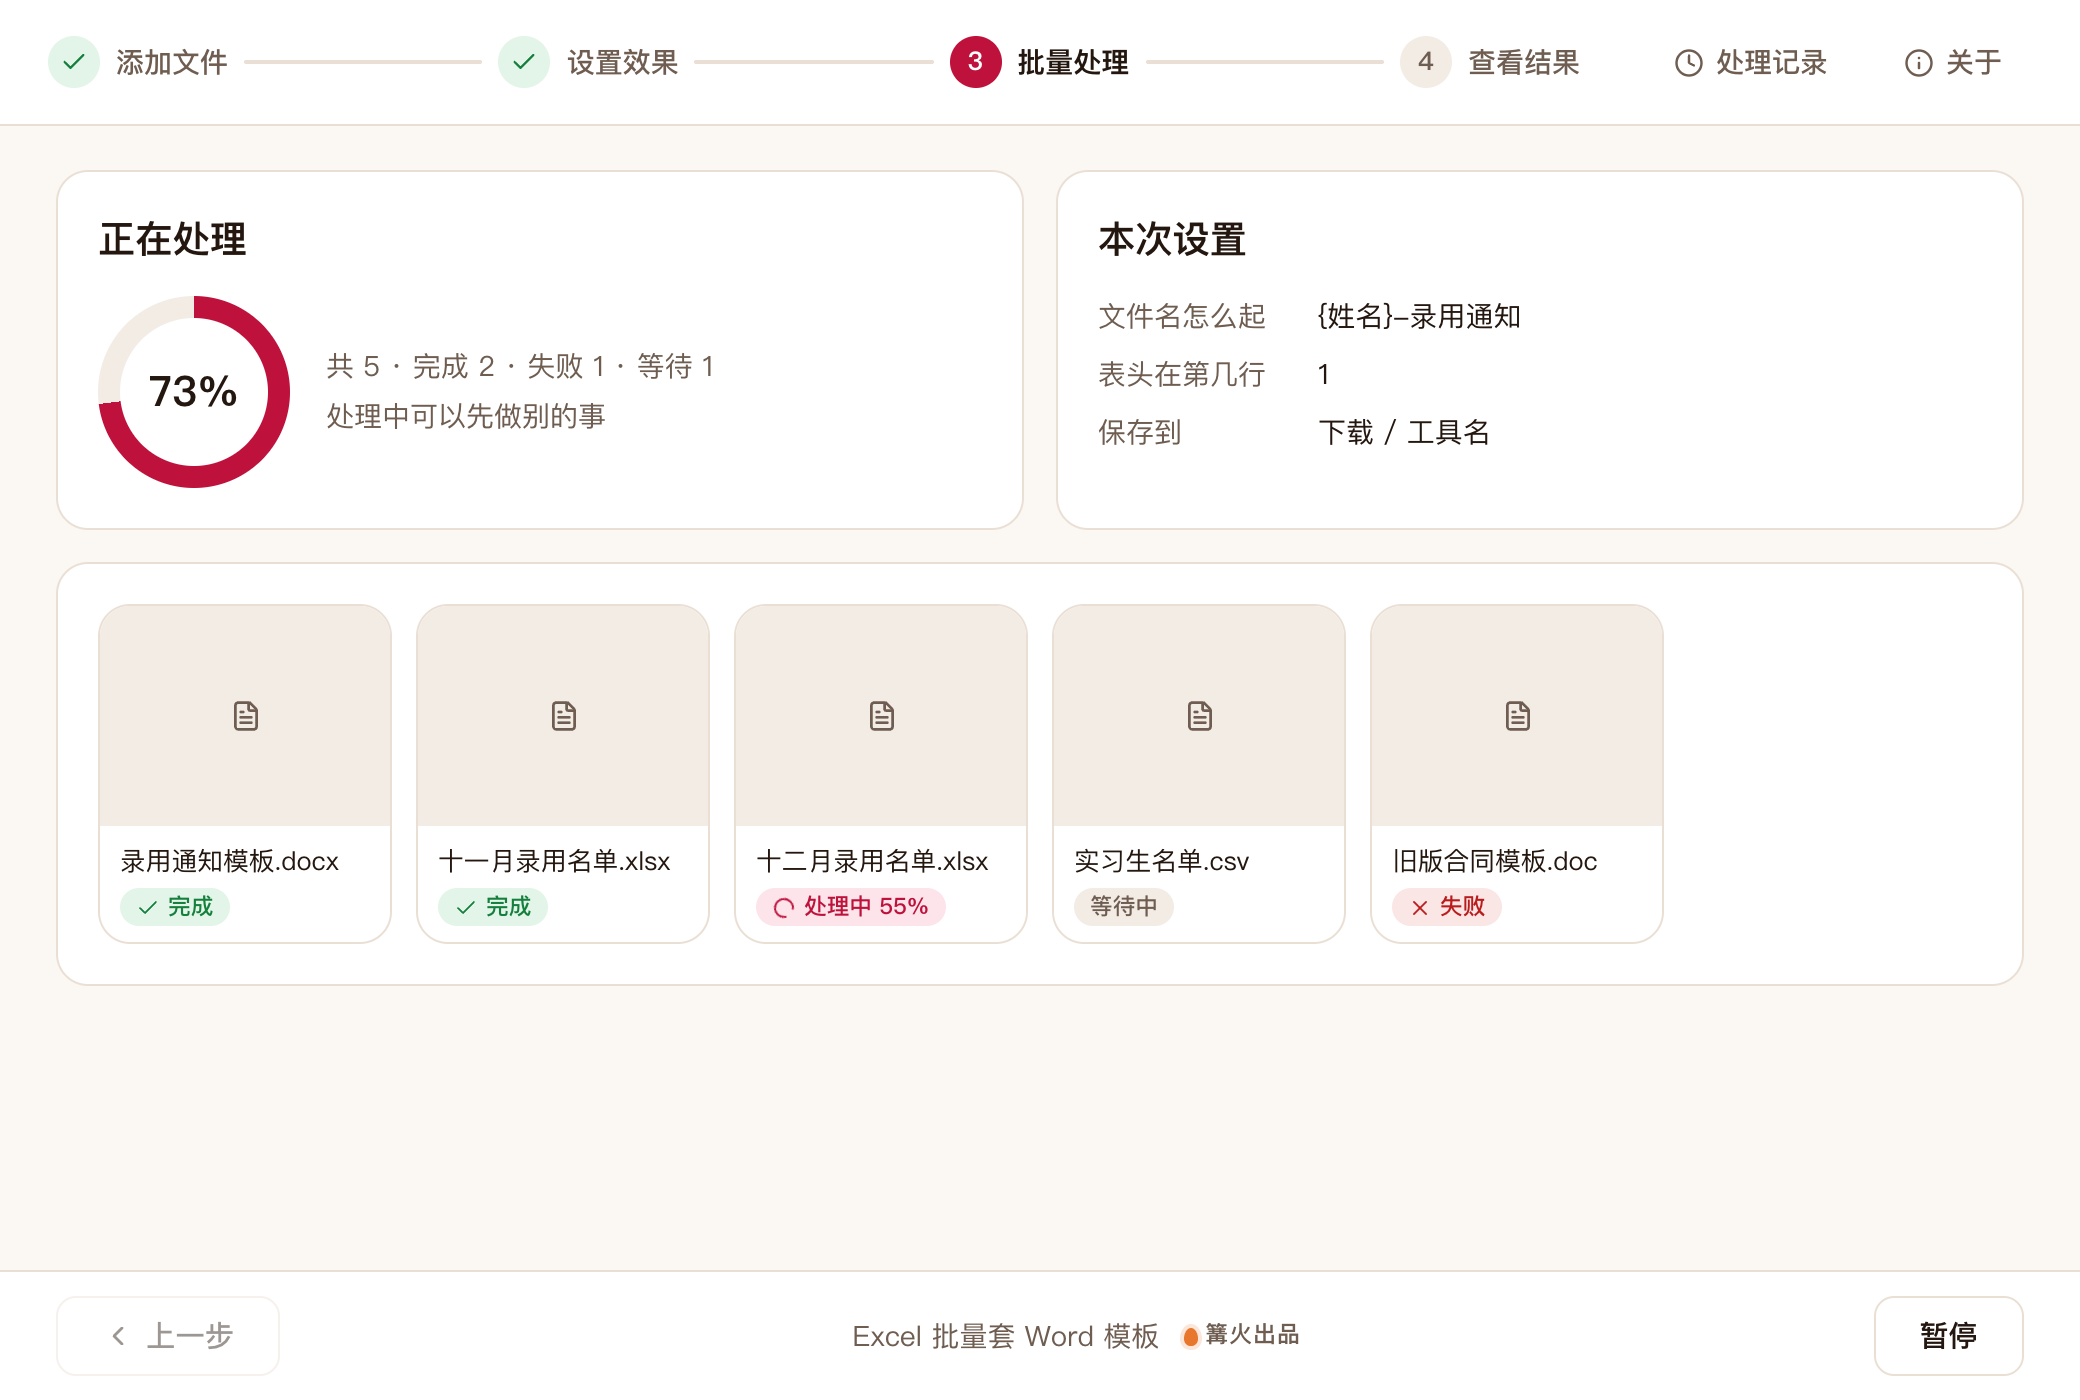
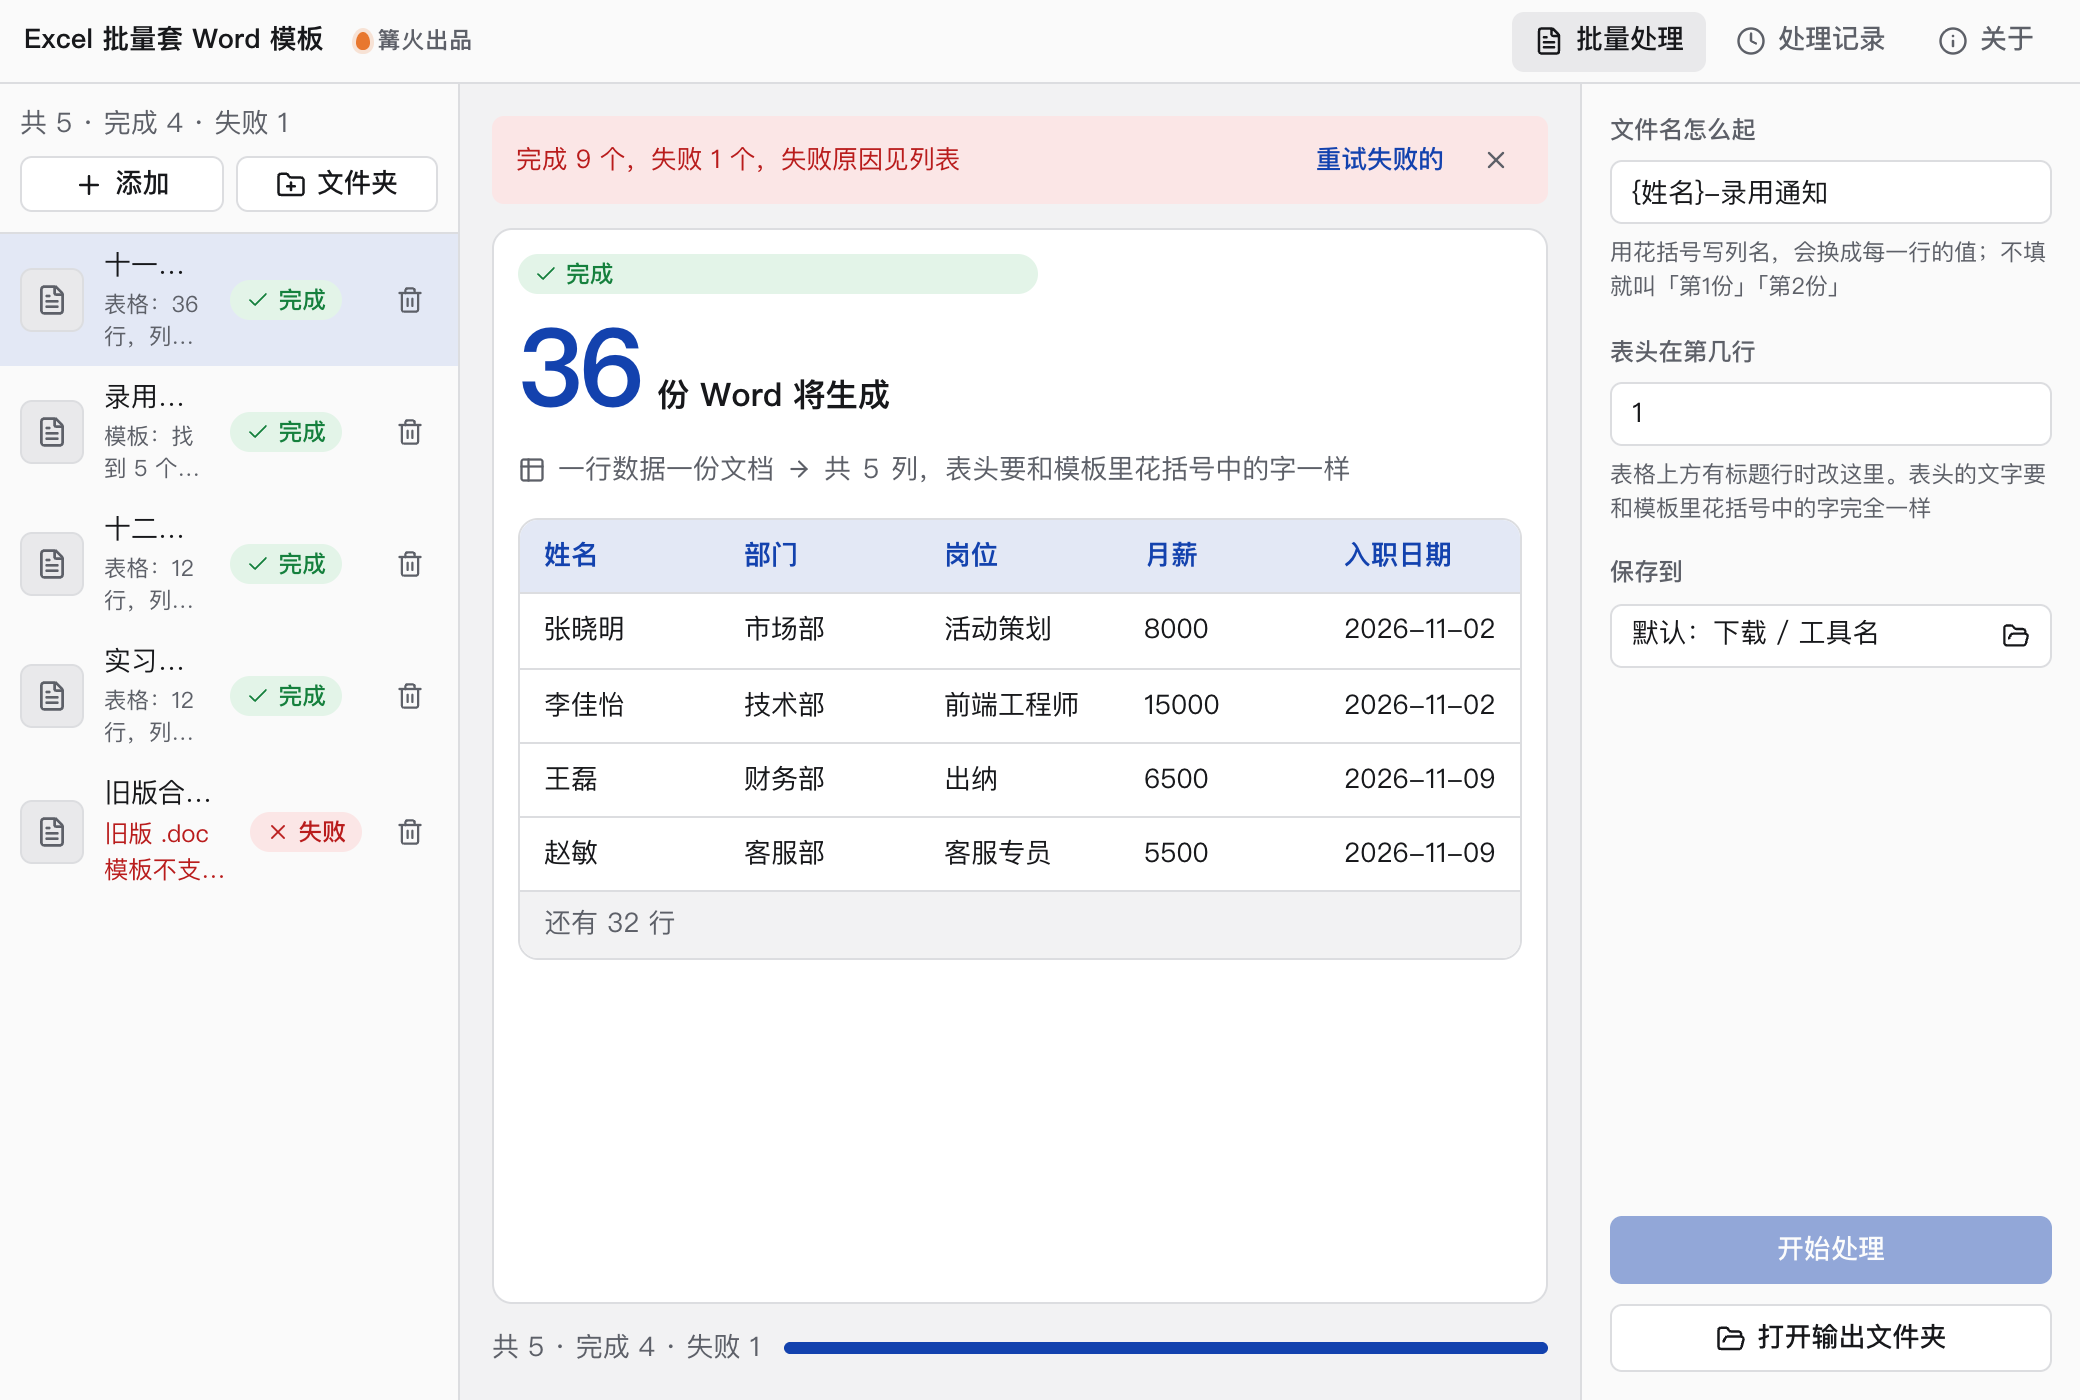
打磨 0.2.0：左列表右预览布局，名单大字加表格预览，模板占位符高亮，空状态示意图，界面全中文

diff --git a/src/tool/tool.css b/src/tool/tool.css
@@ -1,0 +1,54 @@
+/* Excel 批量套 Word 模板：布局 d（左列表、右预览）。只用 kit.css 的变量，类名以 xw- 开头。
+   焦点：模板上高亮的占位符，以及名单「将生成几份」的大字。 */
+
+/* ---- 空状态 ---- */
+.xw-empty { display: flex; flex-direction: column; align-items: center; gap: 10px; padding: 12px; text-align: center; min-height: 100%; justify-content: center; }
+.xw-empty > svg { width: 100%; max-width: 620px; height: auto; }
+.xw-paper { fill: var(--surface); stroke: var(--line-strong); stroke-width: 1.4; }
+.xw-ink { fill: var(--ink); opacity: .75; }
+.xw-ln { fill: var(--line-strong); opacity: .8; }
+.xw-tag { fill: var(--primary-soft); stroke: var(--primary); stroke-width: 1; }
+.xw-tagt { font-size: 7px; fill: var(--primary); font-weight: 700; font-family: var(--font); }
+.xw-sheet { fill: var(--surface); stroke: var(--line-strong); stroke-width: 1.4; }
+.xw-head { fill: var(--primary); }
+.xw-ht { font-size: 10px; fill: var(--on-primary); font-weight: 700; font-family: var(--font); }
+.xw-ct { font-size: 10px; fill: var(--ink); font-family: var(--font); }
+.xw-rule { stroke: var(--line); stroke-width: 1; }
+.xw-plus { font-size: 24px; fill: var(--muted); font-family: var(--font); }
+.xw-arrow { fill: none; stroke: var(--primary); stroke-width: 2.4; stroke-linecap: round; stroke-linejoin: round; }
+.xw-doc { fill: var(--surface); stroke: var(--line-strong); stroke-width: 1.2; }
+.xw-doc.hot { fill: var(--primary-soft); stroke: var(--primary); }
+.xw-w { fill: var(--primary); }
+.xw-wt { font-size: 10px; fill: var(--on-primary); font-weight: 800; font-family: var(--font); }
+.xw-ft { font-size: 10.5px; fill: var(--ink); font-family: var(--font); }
+.xw-cap { font-size: 11px; fill: var(--muted); font-family: var(--font); }
+.xw-title { font-size: 1.35em; font-weight: 700; color: var(--ink); margin-top: 4px; }
+.xw-act { display: inline-flex; align-items: center; gap: 6px; padding: 6px 14px; border-radius: 999px; background: var(--primary-soft); color: var(--primary); font-weight: 600; text-align: left; line-height: 1.4; }
+.xw-act svg { flex: none; }
+
+/* ---- 右侧预览 ---- */
+.xw-body { display: grid; gap: 14px; align-content: start; }
+.xw-big { display: flex; align-items: baseline; gap: 8px; }
+.xw-big b { font-size: 4em; line-height: 1; font-weight: 800; color: var(--primary); letter-spacing: -.03em; }
+.xw-big span { font-size: 1.2em; font-weight: 600; color: var(--ink); }
+.xw-sub { display: flex; align-items: center; flex-wrap: wrap; gap: 4px 6px; color: var(--muted); }
+.xw-tpl { display: grid; grid-template-columns: 150px minmax(0, 1fr); gap: 20px; align-items: center; }
+.xw-page { aspect-ratio: 3 / 4; background: var(--bg); border: 1px solid var(--line-strong); border-radius: 4px; padding: 14px 12px; display: grid; align-content: start; gap: 8px; box-shadow: 0 4px 14px rgb(0 0 0 / .08); }
+.xw-bar { display: block; height: 5px; border-radius: 3px; background: var(--line-strong); opacity: .75; }
+.xw-bar.w50 { width: 50%; background: var(--ink); opacity: .6; height: 6px; }
+.xw-bar.w80 { width: 80%; }
+.xw-bar.w60 { width: 60%; }
+.xw-tags { display: flex; flex-wrap: wrap; gap: 4px; }
+.xw-tags b { font-size: 11px; padding: 1px 5px; border-radius: 3px; background: var(--primary-soft); color: var(--primary); border: 1px solid var(--primary); font-weight: 700; }
+.xw-side { display: grid; gap: 8px; }
+.xw-chips { display: flex; flex-wrap: wrap; gap: 6px; }
+.xw-chips span { padding: 3px 10px; min-height: 26px; display: inline-flex; align-items: center; border-radius: 6px; background: var(--primary-soft); color: var(--primary); font-weight: 600; font-variant-numeric: tabular-nums; }
+
+.xw-grid-wrap { border: 1px solid var(--line); border-radius: var(--radius-lg); overflow: hidden; background: var(--surface); }
+.xw-grid { width: 100%; border-collapse: collapse; table-layout: fixed; }
+.xw-grid th { text-align: left; padding: 8px 12px; background: var(--primary-soft); color: var(--primary); font-weight: 700; white-space: nowrap; overflow: hidden; text-overflow: ellipsis; }
+.xw-grid td { padding: 8px 12px; border-top: 1px solid var(--line); color: var(--ink); white-space: nowrap; overflow: hidden; text-overflow: ellipsis; font-variant-numeric: tabular-nums; }
+.xw-grid .xw-more { width: 2.2em; color: var(--muted); text-align: center; }
+.xw-rest { padding: 6px 12px; border-top: 1px solid var(--line); color: var(--muted); background: var(--bg); }
+
+@media (max-width: 760px) { .xw-tpl { grid-template-columns: 1fr; } }

diff --git a/src/tool/Empty.tsx b/src/tool/Empty.tsx
@@ -1,0 +1,62 @@
+// 空状态：画出「一份模板 + 一张名单 → 每人一份 Word」，占位符、表头和文件名都是真实感的中文
+import { Upload } from 'lucide-react';
+import './tool.css';
+
+export function Empty({ hover }: { hover: boolean }) {
+  return (
+    <div className="xw-empty">
+      <svg viewBox="0 0 520 210" role="img" aria-label="一份 Word 模板加一张名单，生成每人一份的 Word 文件">
+        {/* 模板 */}
+        <g>
+          <rect x="10" y="14" width="112" height="146" rx="5" className="xw-paper" />
+          <rect x="24" y="28" width="52" height="7" rx="3" className="xw-ink" />
+          <rect x="24" y="46" width="30" height="6" rx="3" className="xw-tag" />
+          <text x="28" y="51" className="xw-tagt">{'{姓名}'}</text>
+          <rect x="24" y="64" width="84" height="4" rx="2" className="xw-ln" />
+          <rect x="24" y="76" width="34" height="6" rx="3" className="xw-tag" />
+          <text x="28" y="81" className="xw-tagt">{'{部门}'}</text>
+          <rect x="62" y="77" width="46" height="4" rx="2" className="xw-ln" />
+          <rect x="24" y="94" width="84" height="4" rx="2" className="xw-ln" />
+          <rect x="24" y="106" width="34" height="6" rx="3" className="xw-tag" />
+          <text x="28" y="111" className="xw-tagt">{'{月薪}'}</text>
+          <rect x="24" y="124" width="60" height="4" rx="2" className="xw-ln" />
+          <text x="66" y="182" textAnchor="middle" className="xw-cap">Word 模板</text>
+        </g>
+        <text x="136" y="92" textAnchor="middle" className="xw-plus">+</text>
+        {/* 名单 */}
+        <g>
+          <rect x="150" y="30" width="136" height="114" rx="5" className="xw-sheet" />
+          <rect x="150" y="30" width="136" height="20" rx="5" className="xw-head" />
+          <text x="162" y="44" className="xw-ht">姓名</text>
+          <text x="204" y="44" className="xw-ht">部门</text>
+          <text x="248" y="44" className="xw-ht">月薪</text>
+          {[['张晓明', '市场部', '8000'], ['李佳怡', '技术部', '15000'], ['王磊', '财务部', '6500'], ['赵敏', '客服部', '5500']].map(([a, b, c], i) => (
+            <g key={a}>
+              <line x1="150" x2="286" y1={50 + (i + 1) * 23} y2={50 + (i + 1) * 23} className="xw-rule" />
+              <text x="162" y={66 + i * 23} className="xw-ct">{a}</text>
+              <text x="204" y={66 + i * 23} className="xw-ct">{b}</text>
+              <text x="248" y={66 + i * 23} className="xw-ct">{c}</text>
+            </g>
+          ))}
+          <text x="218" y="182" textAnchor="middle" className="xw-cap">Excel 名单，一行一个人</text>
+        </g>
+        {/* 箭头 */}
+        <path d="M296 87 H334 M326 79 L336 87 L326 95" className="xw-arrow" />
+        {/* 结果 */}
+        <g>
+          {[['张晓明', 0], ['李佳怡', 1], ['王磊', 2]].map(([n, i]) => (
+            <g key={n as string}>
+              <rect x="346" y={22 + Number(i) * 44} width="150" height="34" rx="5" className={Number(i) === 0 ? 'xw-doc hot' : 'xw-doc'} />
+              <rect x="356" y={31 + Number(i) * 44} width="14" height="16" rx="2" className="xw-w" />
+              <text x="363" y={43 + Number(i) * 44} textAnchor="middle" className="xw-wt">W</text>
+              <text x="378" y={43 + Number(i) * 44} className="xw-ft">{n}-录用通知.docx</text>
+            </g>
+          ))}
+          <text x="421" y="182" textAnchor="middle" className="xw-cap">每人一份，内容已填好</text>
+        </g>
+      </svg>
+      <h2 className="xw-title">{hover ? '松开鼠标，开始添加' : '把模板和名单一起拖进来'}</h2>
+      <p className="xw-act"><Upload size={15} />一个 Word 模板（docx）加一张 Excel 或 CSV 名单，模板里用 {'{列名}'} 标出要替换的地方</p>
+    </div>
+  );
+}

diff --git a/src/tool/Result.tsx b/src/tool/Result.tsx
@@ -1,0 +1,54 @@
+// 单个文件的检查结果：模板画成一张纸，占位符高亮；名单用大字写出将生成几份，并摆出前几行数据
+import { ArrowRight, FileText, Table2 } from 'lucide-react';
+import type { InputItem, ItemResult } from '../kit/types';
+import { cellText, type Cell } from './core';
+import './tool.css';
+
+type Shown = { kind: 'template'; tags: string[] } | { kind: 'table'; table: { name: string; header: string[]; rows: Cell[][] } };
+
+const MAX_COLS = 5;
+const MAX_ROWS = 4;
+
+export function ResultBody({ result }: { item: InputItem; result: ItemResult }) {
+  const d = result.data as Shown | undefined;
+  if (d?.kind === 'template') {
+    const tags = d.tags.map((t) => t.trim());
+    return (
+      <div className="xw-body">
+        <div className="xw-tpl">
+          <div className="xw-page" aria-hidden="true">
+            <i className="xw-bar w50" />
+            <div className="xw-tags">{tags.slice(0, 8).map((t) => <b key={t}>{`{${t}}`}</b>)}</div>
+            <i className="xw-bar" /><i className="xw-bar w80" /><i className="xw-bar w60" />
+          </div>
+          <div className="xw-side">
+            <div className="xw-big"><b className="k-num">{tags.length}</b><span>处要替换</span></div>
+            <p className="xw-sub"><FileText size={14} />Word 模板，字体、表格、页眉页脚照原样保留</p>
+          </div>
+        </div>
+        <div className="xw-chips">{tags.map((t) => <span key={t}>{`{${t}}`}</span>)}</div>
+      </div>
+    );
+  }
+  if (d?.kind === 'table') {
+    const { header, rows } = d.table;
+    const cols = header.slice(0, MAX_COLS);
+    const shown = rows.slice(0, MAX_ROWS);
+    return (
+      <div className="xw-body">
+        <div className="xw-big"><b className="k-num">{rows.length}</b><span>份 Word 将生成</span></div>
+        <p className="xw-sub"><Table2 size={14} />一行数据一份文档<ArrowRight size={13} />共 <span className="k-num">{header.length}</span> 列，表头要和模板里花括号中的字一样</p>
+        <div className="xw-grid-wrap">
+          <table className="xw-grid">
+            <thead><tr>{cols.map((h) => <th key={h}>{h}</th>)}{header.length > MAX_COLS && <th className="xw-more">…</th>}</tr></thead>
+            <tbody>
+              {shown.map((r, i) => <tr key={i}>{cols.map((_, c) => <td key={c} title={cellText(r[c] ?? null)}>{cellText(r[c] ?? null)}</td>)}{header.length > MAX_COLS && <td className="xw-more" />}</tr>)}
+            </tbody>
+          </table>
+          {rows.length > MAX_ROWS && <p className="xw-rest">还有 {rows.length - MAX_ROWS} 行</p>}
+        </div>
+      </div>
+    );
+  }
+  return <p className="xw-sub">{result.summary}</p>;
+}

diff --git a/src/tool/preview.ts b/src/tool/preview.ts
@@ -1,23 +1,33 @@
 // 截图与预览用的示例数据（不会进入正式运行）
 import type { Row } from '../kit/runner';
 
-const files: [string, number, Row['status'], string?][] = [
-  ['录用通知模板.docx', 18_000, 'ok', '模板：找到 5 个占位符 {姓名}{部门}{岗位}{月薪}{入职日期}'],
-  ['十一月录用名单.xlsx', 12_000, 'ok', '表格：36 行，列有 姓名、部门、岗位、月薪、入职日期'],
+const header = ['姓名', '部门', '岗位', '月薪', '入职日期'];
+const people: [string, string, string, string, string][] = [
+  ['张晓明', '市场部', '活动策划', '8000', '2026-11-02'],
+  ['李佳怡', '技术部', '前端工程师', '15000', '2026-11-02'],
+  ['王磊', '财务部', '出纳', '6500', '2026-11-09'],
+  ['赵敏', '客服部', '客服专员', '5500', '2026-11-09'],
+  ['陈思远', '技术部', '测试工程师', '11000', '2026-11-16'],
+];
+const table = (name: string, n: number) => ({ kind: 'table', table: { name, header, rows: Array.from({ length: n }, (_, i) => people[i % people.length]) } });
+
+const files: [string, number, Row['status'], string?, unknown?][] = [
+  ['十一月录用名单.xlsx', 12_000, 'ok', '表格：36 行，列有 姓名、部门、岗位、月薪、入职日期', table('十一月录用名单.xlsx', 36)],
+  ['录用通知模板.docx', 18_000, 'ok', '模板：找到 5 个占位符 {姓名}{部门}{岗位}{月薪}{入职日期}', { kind: 'template', tags: header }],
   ['十二月录用名单.xlsx', 9_000, 'run'],
   ['实习生名单.csv', 3_000, 'wait'],
   ['旧版合同模板.doc', 41_000, 'err', '旧版 .doc 模板不支持，请用 Word 或 WPS 另存为 .docx 后再拖进来'],
 ];
 
 export const rows = (state: string): Row[] =>
-  state === 'empty' ? [] : files.map(([name, size, status, text], i) => {
+  state === 'empty' ? [] : files.map(([name, size, status, text, data], i) => {
     const st = state === 'done' && status !== 'err' ? 'ok' : status;
     return {
       item: { id: `p${i}`, name, path: `/示例/${name}`, size },
       status: st,
       progress: st === 'run' ? 0.55 : st === 'ok' ? 1 : 0,
       error: st === 'err' ? text : undefined,
-      result: st === 'ok' ? { summary: text ?? '表格：12 行，列有 姓名、部门、岗位、月薪、入职日期' } : undefined,
+      result: st === 'ok' ? { summary: text ?? '表格：12 行，列有 姓名、部门、岗位、月薪、入职日期', data: data ?? table(name, 12) } : undefined,
     };
   });
 

diff --git a/src/tool/index.ts b/src/tool/index.ts
@@ -6,6 +6,8 @@ import type { BatchTool, InputItem, ItemResult } from '../kit/types';
 import { baseName, fileNameFor, missingTags, patternProblems, rowData, safeName, suspiciousBraces, toTable, uniqueNamer, type Table } from './core';
 import { fillTemplate, inspectTemplate } from './docx';
 import { readSheets } from './xlsx';
+import { Empty } from './Empty';
+import { ResultBody } from './Result';
 
 type Data = { kind: 'template'; tags: string[] } | { kind: 'table'; table: Table };
 
@@ -22,6 +24,8 @@ const tool: BatchTool = {
   mode: 'batch',
   resultView: 'list',
   concurrency: 1,
+  Empty,
+  ResultBody,
   accept: { label: 'Word 模板和表格', extensions: ['docx', 'xlsx', 'csv', 'doc', 'xls'] },
   params: [
     {

diff --git a/CHANGELOG.md b/CHANGELOG.md
@@ -1,5 +1,11 @@
 # 更新记录
 
+## 0.2.0
+
+- 换成左侧文件列表、右侧预览的布局：名单用大字写出将生成几份 Word，并摆出前几行数据；模板画成一张纸，占位符高亮显示。
+- 新增空状态：用示意图说明「模板加名单，生成每人一份」。
+- 主色改为专属深蓝色；界面文字全部改为中文，示例数据换成真实感的中文。
+
 ## 0.1.0
 
 - 首个版本。
